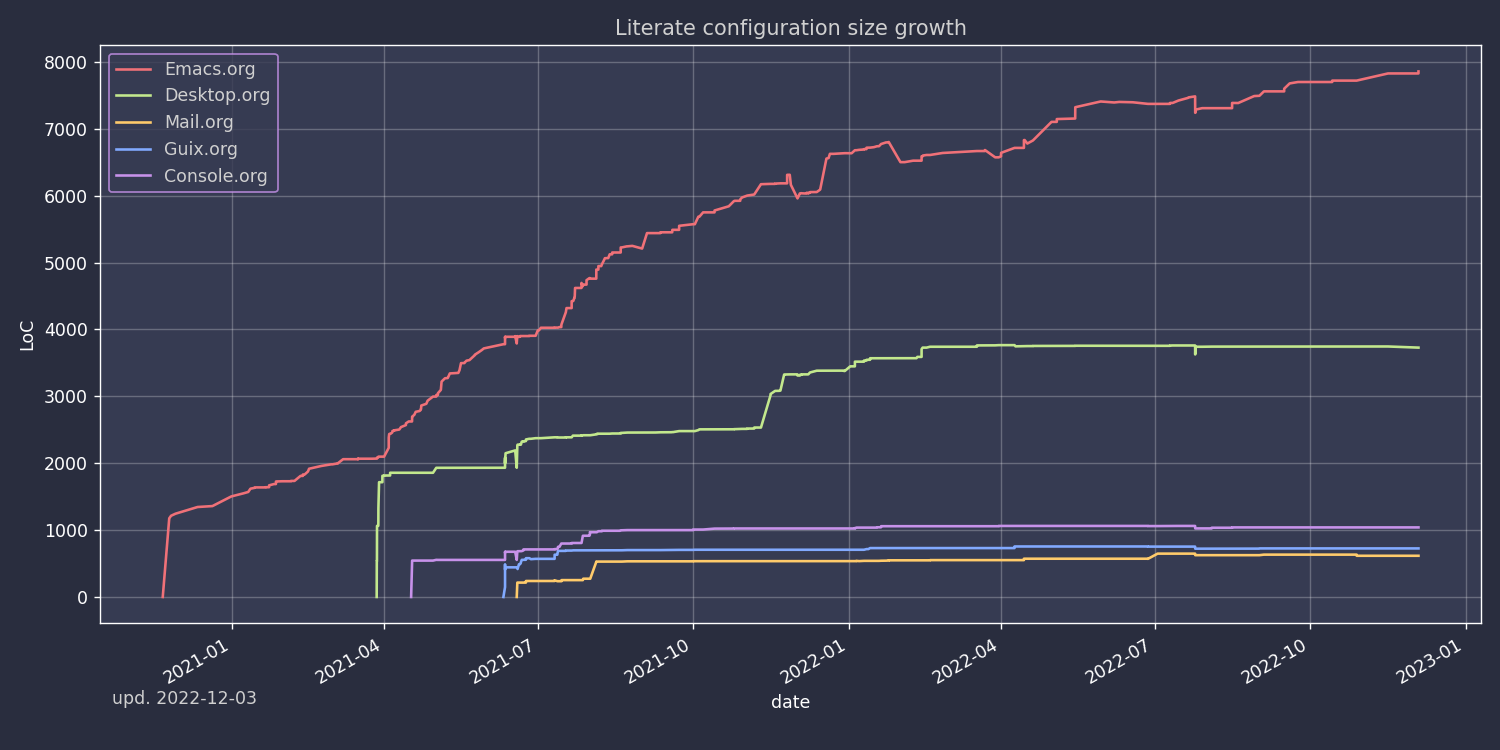
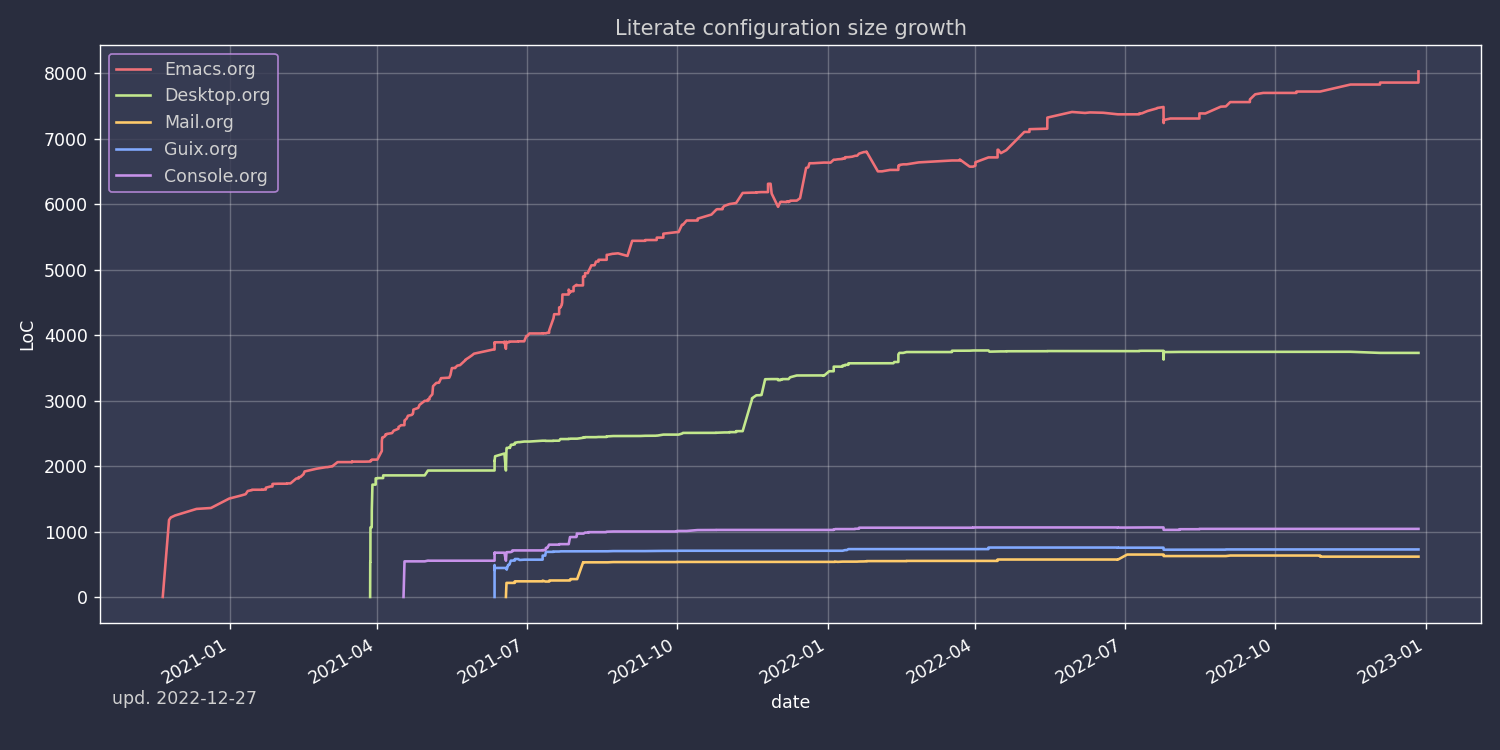
deploy: 5f0178d5ff3b571fbaf17defacb254b3b082af56

diff --git a/configs/emacs/index.html b/configs/emacs/index.html
@@ -498,7 +498,8 @@ Emacs is also particularly good at writing Lisp code, e.g. Clojure, Common Lisp,
 </span></span><span style="display:flex;"><span>     <span style="color:#19177c">prodigy</span>
 </span></span><span style="display:flex;"><span>     <span style="color:#19177c">slime</span>
 </span></span><span style="display:flex;"><span>     <span style="color:#19177c">forge</span>
-</span></span><span style="display:flex;"><span>     <span style="color:#19177c">deadgrep</span>)))
+</span></span><span style="display:flex;"><span>     <span style="color:#19177c">deadgrep</span>
+</span></span><span style="display:flex;"><span>     <span style="color:#19177c">vc-annonate</span>)))
 </span></span></code></pre></div><h4 id="avy">Avy</h4>
 <p><a href="https://github.com/abo-abo/avy">Avy</a> is a package that helps navigate Emacs in a tree-like manner.</p>
 <p>References:</p>
@@ -933,18 +934,13 @@ Emacs is also particularly good at writing Lisp code, e.g. Clojure, Common Lisp,
 </span></span><span style="display:flex;"><span>    <span style="color:#ba2121">&#34;M&#34;</span> <span style="color:#19177c">&#39;magit-file-dispatch</span>)
 </span></span><span style="display:flex;"><span>  <span style="color:#008000">:config</span>
 </span></span><span style="display:flex;"><span>  (<span style="color:#008000">setq</span> <span style="color:#19177c">magit-blame-styles</span>
-</span></span><span style="display:flex;"><span>	<span style="color:#666">&#39;</span>((<span style="color:#19177c">margin</span>
-</span></span><span style="display:flex;"><span>	   (<span style="color:#19177c">margin-format</span>    <span style="color:#666">.</span> (<span style="color:#ba2121">&#34;%a %A %s&#34;</span>))
-</span></span><span style="display:flex;"><span>	   (<span style="color:#19177c">margin-width</span>     <span style="color:#666">.</span> <span style="color:#666">42</span>)
-</span></span><span style="display:flex;"><span>	   (<span style="color:#19177c">margin-face</span>      <span style="color:#666">.</span> <span style="color:#19177c">magit-blame-margin</span>)
-</span></span><span style="display:flex;"><span>	   (<span style="color:#19177c">margin-body-face</span> <span style="color:#666">.</span> (<span style="color:#19177c">magit-blame-dimmed</span>)))
-</span></span><span style="display:flex;"><span>	  (<span style="color:#19177c">headings</span>
-</span></span><span style="display:flex;"><span>	   (<span style="color:#19177c">heading-format</span>   <span style="color:#666">.</span> <span style="color:#ba2121">&#34;%-20a %C %s\n&#34;</span>))
-</span></span><span style="display:flex;"><span>	  (<span style="color:#19177c">highlight</span>
-</span></span><span style="display:flex;"><span>	   (<span style="color:#19177c">highlight-face</span>   <span style="color:#666">.</span> <span style="color:#19177c">magit-blame-highlight</span>))
-</span></span><span style="display:flex;"><span>	  (<span style="color:#19177c">lines</span>
-</span></span><span style="display:flex;"><span>	   (<span style="color:#19177c">show-lines</span>       <span style="color:#666">.</span> <span style="color:#800">t</span>)
-</span></span><span style="display:flex;"><span>	   (<span style="color:#19177c">show-message</span>     <span style="color:#666">.</span> <span style="color:#800">t</span>)))))
+</span></span><span style="display:flex;"><span>      <span style="color:#666">&#39;</span>((<span style="color:#19177c">headings</span>
+</span></span><span style="display:flex;"><span>	 (<span style="color:#19177c">heading-format</span> <span style="color:#666">.</span> <span style="color:#ba2121">&#34;%-20a %C %s\n&#34;</span>))
+</span></span><span style="display:flex;"><span>	(<span style="color:#19177c">highlight</span>
+</span></span><span style="display:flex;"><span>	 (<span style="color:#19177c">highlight-face</span> <span style="color:#666">.</span> <span style="color:#19177c">magit-blame-highlight</span>))
+</span></span><span style="display:flex;"><span>	(<span style="color:#19177c">lines</span>
+</span></span><span style="display:flex;"><span>	 (<span style="color:#19177c">show-lines</span> <span style="color:#666">.</span> <span style="color:#800">t</span>)
+</span></span><span style="display:flex;"><span>	 (<span style="color:#19177c">show-message</span> <span style="color:#666">.</span> <span style="color:#800">t</span>)))))
 </span></span></code></pre></div><p><a href="https://github.com/magit/forge">forge</a> provides integration with forges, such as GitHub and GitLab.</p>
 <div class="highlight"><pre tabindex="0" style=";-moz-tab-size:4;-o-tab-size:4;tab-size:4;"><code class="language-emacs-lisp" data-lang="emacs-lisp"><span style="display:flex;"><span>(<span style="color:#008000">use-package</span> <span style="color:#19177c">forge</span>
 </span></span><span style="display:flex;"><span>  <span style="color:#008000">:after</span> <span style="color:#19177c">magit</span>
@@ -2929,6 +2925,11 @@ Emacs is also particularly good at writing Lisp code, e.g. Clojure, Common Lisp,
 </span></span></code></pre></div><h4 id="crontab">crontab</h4>
 <div class="highlight"><pre tabindex="0" style=";-moz-tab-size:4;-o-tab-size:4;tab-size:4;"><code class="language-emacs-lisp" data-lang="emacs-lisp"><span style="display:flex;"><span>(<span style="color:#008000">use-package</span> <span style="color:#19177c">crontab-mode</span>
 </span></span><span style="display:flex;"><span>  <span style="color:#008000">:straight</span> <span style="color:#800">t</span>)
+</span></span></code></pre></div><h4 id="nginx">nginx</h4>
+<div class="highlight"><pre tabindex="0" style=";-moz-tab-size:4;-o-tab-size:4;tab-size:4;"><code class="language-emacs-lisp" data-lang="emacs-lisp"><span style="display:flex;"><span>(<span style="color:#008000">use-package</span> <span style="color:#19177c">nginx-mode</span>
+</span></span><span style="display:flex;"><span>  <span style="color:#008000">:straight</span> <span style="color:#800">t</span>
+</span></span><span style="display:flex;"><span>  <span style="color:#008000">:config</span>
+</span></span><span style="display:flex;"><span>  (<span style="color:#19177c">my/set-smartparens-indent</span> <span style="color:#19177c">&#39;nginx-mode</span>))
 </span></span></code></pre></div><h3 id="shell">Shell</h3>
 <h4 id="sh">sh</h4>
 <div class="highlight"><pre tabindex="0" style=";-moz-tab-size:4;-o-tab-size:4;tab-size:4;"><code class="language-emacs-lisp" data-lang="emacs-lisp"><span style="display:flex;"><span>(<span style="color:#19177c">add-hook</span> <span style="color:#19177c">&#39;sh-mode-hook</span> <span style="color:#00f">#&#39;</span><span style="color:#19177c">smartparens-mode</span>)
@@ -6066,6 +6067,7 @@ Emacs is also particularly good at writing Lisp code, e.g. Clojure, Common Lisp,
 </span></span><span style="display:flex;"><span>  <span style="color:#408080;font-style:italic">;; (evil-lion-mode -1)</span>
 </span></span><span style="display:flex;"><span>  <span style="color:#408080;font-style:italic">;; (evil-commentary-mode -1)</span>
 </span></span><span style="display:flex;"><span>  <span style="color:#408080;font-style:italic">;; ))</span>
+</span></span><span style="display:flex;"><span>  <span style="color:#408080;font-style:italic">;; &lt;I&#39;ve just read the line below as &#34;I hate everything&#34;&gt;</span>
 </span></span><span style="display:flex;"><span>  <span style="color:#408080;font-style:italic">;; I have everything I need in polybar</span>
 </span></span><span style="display:flex;"><span>  (<span style="color:#19177c">emms-mode-line-mode</span> <span style="color:#666">-1</span>)
 </span></span><span style="display:flex;"><span>  (<span style="color:#19177c">emms-playing-time-display-mode</span> <span style="color:#666">-1</span>)
@@ -6787,6 +6789,155 @@ Emacs is also particularly good at writing Lisp code, e.g. Clojure, Common Lisp,
 </span></span><span style="display:flex;"><span>	    <span style="color:#008000">:action</span> (<span style="color:#008000">lambda</span> (<span style="color:#19177c">elem</span>)
 </span></span><span style="display:flex;"><span>		      (<span style="color:#008000">setq</span> <span style="color:#19177c">zone-programs</span> (<span style="color:#00f">vector</span> (<span style="color:#00f">cdr</span> <span style="color:#19177c">elem</span>)))
 </span></span><span style="display:flex;"><span>		      (<span style="color:#19177c">zone</span>))))
+</span></span></code></pre></div><h4 id="gource">Gource</h4>
+<p><a href="https://gource.io/">Gource</a> is a nice repository visualization tool.</p>
+<p>The goal of the functions below is to run the tool for multiple repos from Dired. Maybe I&rsquo;ll extract it into a separate package at some point, but I&rsquo;m fine with letting it live here for now.</p>
+<h5 id="gravatars">Gravatars</h5>
+<p>Gource can use pictures to visualize users, so I want to use gravatars. It&rsquo;s quite amazing that Emacs has a built-in gravatar package.</p>
+<p>First, retrieve a particular gravatar, with a fallback to identicon if necessary:</p>
+<div class="highlight"><pre tabindex="0" style=";-moz-tab-size:4;-o-tab-size:4;tab-size:4;"><code class="language-emacs-lisp" data-lang="emacs-lisp"><span style="display:flex;"><span>(<span style="color:#008000">defun</span> <span style="color:#19177c">my/gravatar-retrieve-sync</span> (<span style="color:#19177c">email</span> <span style="color:#19177c">file-name</span>)
+</span></span><span style="display:flex;"><span>  (<span style="color:#008000">let</span> ((<span style="color:#19177c">gravatar-default-image</span> <span style="color:#ba2121">&#34;identicon&#34;</span>)
+</span></span><span style="display:flex;"><span>	(<span style="color:#19177c">gravatar-size</span> <span style="color:#800">nil</span>)
+</span></span><span style="display:flex;"><span>	(<span style="color:#19177c">coding-system-for-write</span> <span style="color:#19177c">&#39;binary</span>)
+</span></span><span style="display:flex;"><span>	(<span style="color:#19177c">write-region-annotate-functions</span> <span style="color:#800">nil</span>)
+</span></span><span style="display:flex;"><span>	(<span style="color:#19177c">write-region-post-annotation-function</span> <span style="color:#800">nil</span>))
+</span></span><span style="display:flex;"><span>    (<span style="color:#00f">write-region</span>
+</span></span><span style="display:flex;"><span>     (<span style="color:#19177c">image-property</span> (<span style="color:#19177c">gravatar-retrieve-synchronously</span> <span style="color:#19177c">email</span>) <span style="color:#008000">:data</span>)
+</span></span><span style="display:flex;"><span>     <span style="color:#800">nil</span> <span style="color:#19177c">file-name</span> <span style="color:#800">nil</span> <span style="color:#008000">:silent</span>)))
+</span></span></code></pre></div><p>These images have to be saved to a folder, with the name corresponding to the git username.</p>
+<div class="highlight"><pre tabindex="0" style=";-moz-tab-size:4;-o-tab-size:4;tab-size:4;"><code class="language-emacs-lisp" data-lang="emacs-lisp"><span style="display:flex;"><span>(<span style="color:#008000">setq</span> <span style="color:#19177c">my/gravatar-folder</span> <span style="color:#ba2121">&#34;/home/pavel/.cache/gravatars/&#34;</span>)
+</span></span><span style="display:flex;"><span>
+</span></span><span style="display:flex;"><span>(<span style="color:#008000">defun</span> <span style="color:#19177c">my/gravatar-save</span> (<span style="color:#19177c">email</span> <span style="color:#19177c">author</span>)
+</span></span><span style="display:flex;"><span>  (<span style="color:#008000">let</span> ((<span style="color:#19177c">file-name</span> (<span style="color:#00f">concat</span> <span style="color:#19177c">my/gravatar-folder</span> <span style="color:#19177c">author</span> <span style="color:#ba2121">&#34;.png&#34;</span>)))
+</span></span><span style="display:flex;"><span>    (<span style="color:#19177c">mkdir</span> <span style="color:#19177c">my/gravatar-folder</span> <span style="color:#800">t</span>)
+</span></span><span style="display:flex;"><span>    (<span style="color:#008000">unless</span> (<span style="color:#00f">file-exists-p</span> <span style="color:#19177c">file-name</span>)
+</span></span><span style="display:flex;"><span>      (<span style="color:#00f">message</span> <span style="color:#ba2121">&#34;Fetching gravatar for %s (%s)&#34;</span> <span style="color:#19177c">author</span> <span style="color:#19177c">email</span>)
+</span></span><span style="display:flex;"><span>      (<span style="color:#19177c">my/gravatar-retrieve-sync</span> <span style="color:#19177c">email</span> <span style="color:#19177c">file-name</span>))))
+</span></span></code></pre></div><h5 id="author-names">Author names</h5>
+<p>That&rsquo;s a hell of a function&hellip;</p>
+<p>The problem it tries to solve is that, at least in the repos I&rsquo;m working with, one person can have different commits signed by different emails with the same username, or by same username with different emails. So this function tries to extract and match all such users.</p>
+<div class="highlight"><pre tabindex="0" style=";-moz-tab-size:4;-o-tab-size:4;tab-size:4;"><code class="language-emacs-lisp" data-lang="emacs-lisp"><span style="display:flex;"><span>(<span style="color:#008000">defun</span> <span style="color:#19177c">my/git-get-authors</span> (<span style="color:#19177c">repo</span> <span style="color:#008000">&amp;optional</span> <span style="color:#19177c">authors-init</span>)
+</span></span><span style="display:flex;"><span>  (<span style="color:#008000">let*</span> ((<span style="color:#19177c">default-directory</span> <span style="color:#19177c">repo</span>)
+</span></span><span style="display:flex;"><span>	 (<span style="color:#19177c">data</span> (<span style="color:#19177c">shell-command-to-string</span>
+</span></span><span style="display:flex;"><span>		<span style="color:#ba2121">&#34;git log --pretty=format:\&#34;%ae|%an\&#34; | sort | uniq -c | sed \&#34;s/^[ \t]*//;s/ /|/\&#34;&#34;</span>))
+</span></span><span style="display:flex;"><span>	 (<span style="color:#19177c">authors</span>
+</span></span><span style="display:flex;"><span>	  (<span style="color:#008000">cl-loop</span> <span style="color:#19177c">for</span> <span style="color:#00f">string</span> <span style="color:#19177c">in</span> (<span style="color:#19177c">split-string</span> <span style="color:#19177c">data</span> <span style="color:#ba2121">&#34;\n&#34;</span>)
+</span></span><span style="display:flex;"><span>		   <span style="color:#008000">if</span> (<span style="color:#00f">=</span> (<span style="color:#00f">length</span> (<span style="color:#19177c">split-string</span> <span style="color:#00f">string</span> <span style="color:#ba2121">&#34;|&#34;</span>)) <span style="color:#666">3</span>)
+</span></span><span style="display:flex;"><span>		   <span style="color:#19177c">collect</span> (<span style="color:#008000">let</span> ((<span style="color:#19177c">datum</span> (<span style="color:#19177c">split-string</span> <span style="color:#00f">string</span> <span style="color:#ba2121">&#34;|&#34;</span>)))
+</span></span><span style="display:flex;"><span>			     <span style="color:#666">`</span>((<span style="color:#19177c">count</span> <span style="color:#666">.</span> <span style="color:#666">,</span>(<span style="color:#00f">string-to-number</span> (<span style="color:#00f">nth</span> <span style="color:#666">0</span> <span style="color:#19177c">datum</span>)))
+</span></span><span style="display:flex;"><span>			       (<span style="color:#19177c">email</span> <span style="color:#666">.</span> <span style="color:#666">,</span>(<span style="color:#00f">downcase</span> (<span style="color:#00f">nth</span> <span style="color:#666">1</span> <span style="color:#19177c">datum</span>)))
+</span></span><span style="display:flex;"><span>			       (<span style="color:#19177c">author</span> <span style="color:#666">.</span> <span style="color:#666">,</span>(<span style="color:#00f">nth</span> <span style="color:#666">2</span> <span style="color:#19177c">datum</span>)))))))
+</span></span><span style="display:flex;"><span>    (<span style="color:#00f">mapcar</span>
+</span></span><span style="display:flex;"><span>     (<span style="color:#008000">lambda</span> (<span style="color:#19177c">datum</span>)
+</span></span><span style="display:flex;"><span>       (<span style="color:#008000">setf</span> (<span style="color:#19177c">alist-get</span> <span style="color:#19177c">&#39;author</span> <span style="color:#19177c">datum</span>)
+</span></span><span style="display:flex;"><span>	     (<span style="color:#00f">car</span> (<span style="color:#19177c">cl-reduce</span>
+</span></span><span style="display:flex;"><span>		   (<span style="color:#008000">lambda</span> (<span style="color:#19177c">acc</span> <span style="color:#19177c">author</span>)
+</span></span><span style="display:flex;"><span>		     (<span style="color:#008000">if</span> (<span style="color:#00f">&gt;</span> (<span style="color:#00f">cdr</span> <span style="color:#19177c">author</span>) (<span style="color:#00f">cdr</span> <span style="color:#19177c">acc</span>))
+</span></span><span style="display:flex;"><span>			 <span style="color:#19177c">author</span>
+</span></span><span style="display:flex;"><span>		       <span style="color:#19177c">acc</span>))
+</span></span><span style="display:flex;"><span>		   (<span style="color:#19177c">alist-get</span> <span style="color:#19177c">&#39;authors</span> <span style="color:#19177c">datum</span>)
+</span></span><span style="display:flex;"><span>		   <span style="color:#008000">:initial-value</span> <span style="color:#666">&#39;</span>(<span style="color:#800">nil</span> <span style="color:#666">.</span> <span style="color:#666">-1</span>))))
+</span></span><span style="display:flex;"><span>       (<span style="color:#008000">setf</span> (<span style="color:#19177c">alist-get</span> <span style="color:#19177c">&#39;email</span> <span style="color:#19177c">datum</span>)
+</span></span><span style="display:flex;"><span>	     (<span style="color:#00f">car</span> (<span style="color:#19177c">cl-reduce</span>
+</span></span><span style="display:flex;"><span>		   (<span style="color:#008000">lambda</span> (<span style="color:#19177c">acc</span> <span style="color:#19177c">email</span>)
+</span></span><span style="display:flex;"><span>		     (<span style="color:#008000">if</span> (<span style="color:#00f">&gt;</span> (<span style="color:#00f">cdr</span> <span style="color:#19177c">email</span>) (<span style="color:#00f">cdr</span> <span style="color:#19177c">acc</span>))
+</span></span><span style="display:flex;"><span>			 <span style="color:#19177c">email</span>
+</span></span><span style="display:flex;"><span>		       <span style="color:#19177c">acc</span>))
+</span></span><span style="display:flex;"><span>		   (<span style="color:#19177c">alist-get</span> <span style="color:#19177c">&#39;emails</span> <span style="color:#19177c">datum</span>)
+</span></span><span style="display:flex;"><span>		   <span style="color:#008000">:initial-value</span> <span style="color:#666">&#39;</span>(<span style="color:#800">nil</span> <span style="color:#666">.</span> <span style="color:#666">-1</span>))))
+</span></span><span style="display:flex;"><span>       <span style="color:#19177c">datum</span>)
+</span></span><span style="display:flex;"><span>     (<span style="color:#19177c">cl-reduce</span>
+</span></span><span style="display:flex;"><span>      (<span style="color:#008000">lambda</span> (<span style="color:#19177c">acc</span> <span style="color:#19177c">val</span>)
+</span></span><span style="display:flex;"><span>	(<span style="color:#008000">let*</span> ((<span style="color:#19177c">author</span> (<span style="color:#19177c">alist-get</span> <span style="color:#19177c">&#39;author</span> <span style="color:#19177c">val</span>))
+</span></span><span style="display:flex;"><span>	       (<span style="color:#19177c">email</span> (<span style="color:#19177c">alist-get</span> <span style="color:#19177c">&#39;email</span> <span style="color:#19177c">val</span>))
+</span></span><span style="display:flex;"><span>	       (<span style="color:#19177c">count</span> (<span style="color:#19177c">alist-get</span> <span style="color:#19177c">&#39;count</span> <span style="color:#19177c">val</span>))
+</span></span><span style="display:flex;"><span>	       (<span style="color:#19177c">saved-value</span>
+</span></span><span style="display:flex;"><span>		(<span style="color:#19177c">seq-find</span>
+</span></span><span style="display:flex;"><span>		 (<span style="color:#008000">lambda</span> (<span style="color:#19177c">cand</span>)
+</span></span><span style="display:flex;"><span>		   (<span style="color:#008000">or</span> (<span style="color:#19177c">alist-get</span> <span style="color:#19177c">email</span> (<span style="color:#19177c">alist-get</span> <span style="color:#19177c">&#39;emails</span> <span style="color:#19177c">cand</span>)
+</span></span><span style="display:flex;"><span>				  <span style="color:#800">nil</span> <span style="color:#800">nil</span> <span style="color:#00f">#&#39;string-equal</span>)
+</span></span><span style="display:flex;"><span>		       (<span style="color:#19177c">alist-get</span> <span style="color:#19177c">author</span> (<span style="color:#19177c">alist-get</span> <span style="color:#19177c">&#39;authors</span> <span style="color:#19177c">cand</span>)
+</span></span><span style="display:flex;"><span>				  <span style="color:#800">nil</span> <span style="color:#800">nil</span> <span style="color:#00f">#&#39;string-equal</span>)
+</span></span><span style="display:flex;"><span>		       (<span style="color:#19177c">alist-get</span> <span style="color:#19177c">email</span> (<span style="color:#19177c">alist-get</span> <span style="color:#19177c">&#39;authors</span> <span style="color:#19177c">cand</span>)
+</span></span><span style="display:flex;"><span>				  <span style="color:#800">nil</span> <span style="color:#800">nil</span> <span style="color:#00f">#&#39;string-equal</span>)
+</span></span><span style="display:flex;"><span>		       (<span style="color:#19177c">alist-get</span> <span style="color:#19177c">author</span> (<span style="color:#19177c">alist-get</span> <span style="color:#19177c">&#39;emails</span> <span style="color:#19177c">cand</span>)
+</span></span><span style="display:flex;"><span>				  <span style="color:#800">nil</span> <span style="color:#800">nil</span> <span style="color:#00f">#&#39;string-equal</span>)))
+</span></span><span style="display:flex;"><span>		 <span style="color:#19177c">acc</span>)))
+</span></span><span style="display:flex;"><span>	  (<span style="color:#008000">if</span> <span style="color:#19177c">saved-value</span>
+</span></span><span style="display:flex;"><span>	      (<span style="color:#008000">progn</span>
+</span></span><span style="display:flex;"><span>		(<span style="color:#008000">if</span> (<span style="color:#19177c">alist-get</span> <span style="color:#19177c">email</span> (<span style="color:#19177c">alist-get</span> <span style="color:#19177c">&#39;emails</span> <span style="color:#19177c">saved-value</span>)
+</span></span><span style="display:flex;"><span>			       <span style="color:#800">nil</span> <span style="color:#800">nil</span> <span style="color:#00f">#&#39;string-equal</span>)
+</span></span><span style="display:flex;"><span>		    (<span style="color:#008000">cl-incf</span> (<span style="color:#19177c">alist-get</span> <span style="color:#19177c">email</span> (<span style="color:#19177c">alist-get</span> <span style="color:#19177c">&#39;emails</span> <span style="color:#19177c">saved-value</span>)
+</span></span><span style="display:flex;"><span>					<span style="color:#800">nil</span> <span style="color:#800">nil</span> <span style="color:#00f">#&#39;string-equal</span>)
+</span></span><span style="display:flex;"><span>			     <span style="color:#19177c">count</span>)
+</span></span><span style="display:flex;"><span>		  (<span style="color:#008000">push</span> (<span style="color:#00f">cons</span> <span style="color:#19177c">email</span> <span style="color:#19177c">count</span>) (<span style="color:#19177c">alist-get</span> <span style="color:#19177c">&#39;emails</span> <span style="color:#19177c">saved-value</span>)))
+</span></span><span style="display:flex;"><span>		(<span style="color:#008000">if</span> (<span style="color:#19177c">alist-get</span> <span style="color:#19177c">author</span> (<span style="color:#19177c">alist-get</span> <span style="color:#19177c">&#39;authors</span> <span style="color:#19177c">saved-value</span>)
+</span></span><span style="display:flex;"><span>			       <span style="color:#800">nil</span> <span style="color:#800">nil</span> <span style="color:#00f">#&#39;string-equal</span>)
+</span></span><span style="display:flex;"><span>		    (<span style="color:#008000">cl-incf</span> (<span style="color:#19177c">alist-get</span> <span style="color:#19177c">author</span> (<span style="color:#19177c">alist-get</span> <span style="color:#19177c">&#39;authors</span> <span style="color:#19177c">saved-value</span>)
+</span></span><span style="display:flex;"><span>					<span style="color:#800">nil</span> <span style="color:#800">nil</span> <span style="color:#00f">#&#39;string-equal</span>)
+</span></span><span style="display:flex;"><span>			     <span style="color:#19177c">count</span>)
+</span></span><span style="display:flex;"><span>		  (<span style="color:#008000">push</span> (<span style="color:#00f">cons</span> <span style="color:#19177c">author</span> <span style="color:#19177c">count</span>) (<span style="color:#19177c">alist-get</span> <span style="color:#19177c">&#39;authors</span> <span style="color:#19177c">saved-value</span>))))
+</span></span><span style="display:flex;"><span>	    (<span style="color:#008000">setq</span> <span style="color:#19177c">saved-value</span>
+</span></span><span style="display:flex;"><span>		  (<span style="color:#008000">push</span> <span style="color:#666">`</span>((<span style="color:#19177c">emails</span> <span style="color:#666">.</span> ((<span style="color:#666">,</span><span style="color:#19177c">email</span> <span style="color:#666">.</span> <span style="color:#666">,</span><span style="color:#19177c">count</span>)))
+</span></span><span style="display:flex;"><span>			  (<span style="color:#19177c">authors</span> <span style="color:#666">.</span> ((<span style="color:#666">,</span><span style="color:#19177c">author</span> <span style="color:#666">.</span> <span style="color:#666">,</span><span style="color:#19177c">count</span>))))
+</span></span><span style="display:flex;"><span>			<span style="color:#19177c">acc</span>)))
+</span></span><span style="display:flex;"><span>	  <span style="color:#19177c">acc</span>))
+</span></span><span style="display:flex;"><span>      <span style="color:#19177c">authors</span>
+</span></span><span style="display:flex;"><span>      <span style="color:#008000">:initial-value</span> <span style="color:#19177c">authors-init</span>))))
+</span></span></code></pre></div><h5 id="get-gource-log">Get Gource Log</h5>
+<div class="highlight"><pre tabindex="0" style=";-moz-tab-size:4;-o-tab-size:4;tab-size:4;"><code class="language-emacs-lisp" data-lang="emacs-lisp"><span style="display:flex;"><span>(<span style="color:#008000">defun</span> <span style="color:#19177c">my/gource-prepare-log</span> (<span style="color:#19177c">repo</span> <span style="color:#19177c">authors</span>)
+</span></span><span style="display:flex;"><span>  (<span style="color:#008000">let</span> ((<span style="color:#00f">log</span> (<span style="color:#19177c">shell-command-to-string</span>
+</span></span><span style="display:flex;"><span>	      (<span style="color:#00f">concat</span>
+</span></span><span style="display:flex;"><span>	       <span style="color:#ba2121">&#34;gource --output-custom-log - &#34;</span>
+</span></span><span style="display:flex;"><span>	       <span style="color:#19177c">repo</span>)))
+</span></span><span style="display:flex;"><span>	(<span style="color:#19177c">authors-mapping</span> (<span style="color:#00f">make-hash-table</span> <span style="color:#008000">:test</span> <span style="color:#00f">#&#39;equal</span>))
+</span></span><span style="display:flex;"><span>	(<span style="color:#19177c">prefix</span> (<span style="color:#19177c">file-name-base</span> <span style="color:#19177c">repo</span>)))
+</span></span><span style="display:flex;"><span>    (<span style="color:#008000">cl-loop</span> <span style="color:#19177c">for</span> <span style="color:#19177c">author-datum</span> <span style="color:#19177c">in</span> <span style="color:#19177c">authors</span>
+</span></span><span style="display:flex;"><span>	     <span style="color:#19177c">for</span> <span style="color:#19177c">author</span> <span style="color:#00f">=</span> (<span style="color:#19177c">alist-get</span> <span style="color:#19177c">&#39;author</span> <span style="color:#19177c">author-datum</span>)
+</span></span><span style="display:flex;"><span>	     <span style="color:#008000">do</span> (<span style="color:#19177c">my/gravatar-save</span> (<span style="color:#19177c">alist-get</span> <span style="color:#19177c">&#39;email</span> <span style="color:#19177c">author-datum</span>) <span style="color:#19177c">author</span>)
+</span></span><span style="display:flex;"><span>	     <span style="color:#008000">do</span> (<span style="color:#008000">cl-loop</span> <span style="color:#19177c">for</span> <span style="color:#19177c">other-author</span> <span style="color:#19177c">in</span> (<span style="color:#19177c">alist-get</span> <span style="color:#19177c">&#39;authors</span> <span style="color:#19177c">author-datum</span>)
+</span></span><span style="display:flex;"><span>			 <span style="color:#008000">unless</span> (<span style="color:#00f">string-equal</span> (<span style="color:#00f">car</span> <span style="color:#19177c">other-author</span>) <span style="color:#19177c">author</span>)
+</span></span><span style="display:flex;"><span>			 <span style="color:#008000">do</span> (<span style="color:#00f">puthash</span> (<span style="color:#00f">car</span> <span style="color:#19177c">other-author</span>) <span style="color:#19177c">author</span>
+</span></span><span style="display:flex;"><span>				     <span style="color:#19177c">authors-mapping</span>)))
+</span></span><span style="display:flex;"><span>    (<span style="color:#008000">cl-loop</span> <span style="color:#19177c">for</span> <span style="color:#19177c">line</span> <span style="color:#19177c">in</span> (<span style="color:#19177c">split-string</span> <span style="color:#00f">log</span> <span style="color:#ba2121">&#34;\n&#34;</span>)
+</span></span><span style="display:flex;"><span>	     <span style="color:#00f">concat</span> (<span style="color:#008000">let</span> ((<span style="color:#19177c">fragments</span> (<span style="color:#19177c">split-string</span> <span style="color:#19177c">line</span> <span style="color:#ba2121">&#34;|&#34;</span>)))
+</span></span><span style="display:flex;"><span>		      (<span style="color:#008000">when</span> (<span style="color:#00f">&gt;</span> (<span style="color:#00f">length</span> <span style="color:#19177c">fragments</span>) <span style="color:#666">3</span>)
+</span></span><span style="display:flex;"><span>			(<span style="color:#19177c">when-let</span> (<span style="color:#19177c">mapped-author</span> (<span style="color:#00f">gethash</span> (<span style="color:#00f">nth</span> <span style="color:#666">1</span> <span style="color:#19177c">fragments</span>)
+</span></span><span style="display:flex;"><span>							  <span style="color:#19177c">authors-mapping</span>))
+</span></span><span style="display:flex;"><span>			  (<span style="color:#008000">setf</span> (<span style="color:#00f">nth</span> <span style="color:#666">1</span> <span style="color:#19177c">fragments</span>) <span style="color:#19177c">mapped-author</span>))
+</span></span><span style="display:flex;"><span>			(<span style="color:#008000">setf</span> (<span style="color:#00f">nth</span> <span style="color:#666">3</span> <span style="color:#19177c">fragments</span>)
+</span></span><span style="display:flex;"><span>			      (<span style="color:#00f">concat</span> <span style="color:#ba2121">&#34;/&#34;</span> <span style="color:#19177c">prefix</span> (<span style="color:#00f">nth</span> <span style="color:#666">3</span> <span style="color:#19177c">fragments</span>))))
+</span></span><span style="display:flex;"><span>		      (<span style="color:#19177c">string-join</span> <span style="color:#19177c">fragments</span> <span style="color:#ba2121">&#34;|&#34;</span>))
+</span></span><span style="display:flex;"><span>	     <span style="color:#00f">concat</span> <span style="color:#ba2121">&#34;\n&#34;</span>)))
+</span></span></code></pre></div><div class="highlight"><pre tabindex="0" style=";-moz-tab-size:4;-o-tab-size:4;tab-size:4;"><code class="language-emacs-lisp" data-lang="emacs-lisp"><span style="display:flex;"><span>(<span style="color:#008000">defun</span> <span style="color:#19177c">my/gource-dired-create-logs</span> (<span style="color:#19177c">repos</span> <span style="color:#19177c">log-name</span>)
+</span></span><span style="display:flex;"><span>  (<span style="color:#008000">interactive</span> (<span style="color:#00f">list</span> (<span style="color:#008000">or</span> (<span style="color:#19177c">dired-get-marked-files</span> <span style="color:#800">nil</span> <span style="color:#800">nil</span> <span style="color:#00f">#&#39;file-directory-p</span>)
+</span></span><span style="display:flex;"><span>			 (<span style="color:#d2413a;font-weight:bold">user-error</span> <span style="color:#ba2121">&#34;Select at least one directory&#34;</span>))
+</span></span><span style="display:flex;"><span>		     (<span style="color:#19177c">read-file-name</span> <span style="color:#ba2121">&#34;Log file name: &#34;</span> <span style="color:#800">nil</span> <span style="color:#ba2121">&#34;combined.log&#34;</span>)))
+</span></span><span style="display:flex;"><span>  (<span style="color:#008000">let*</span> ((<span style="color:#19177c">authors</span>
+</span></span><span style="display:flex;"><span>	  (<span style="color:#19177c">cl-reduce</span>
+</span></span><span style="display:flex;"><span>	   (<span style="color:#008000">lambda</span> (<span style="color:#19177c">acc</span> <span style="color:#19177c">repo</span>)
+</span></span><span style="display:flex;"><span>	     (<span style="color:#19177c">my/git-get-authors</span> <span style="color:#19177c">repo</span> <span style="color:#19177c">acc</span>))
+</span></span><span style="display:flex;"><span>	   <span style="color:#19177c">repos</span>
+</span></span><span style="display:flex;"><span>	   <span style="color:#008000">:initial-value</span> <span style="color:#800">nil</span>))
+</span></span><span style="display:flex;"><span>	 (<span style="color:#19177c">logs</span> (<span style="color:#19177c">string-join</span>
+</span></span><span style="display:flex;"><span>		(<span style="color:#19177c">seq-filter</span>
+</span></span><span style="display:flex;"><span>		 (<span style="color:#008000">lambda</span> (<span style="color:#19177c">line</span>)
+</span></span><span style="display:flex;"><span>		   (<span style="color:#19177c">not</span> (<span style="color:#19177c">string-empty-p</span> <span style="color:#19177c">line</span>)))
+</span></span><span style="display:flex;"><span>		 (<span style="color:#19177c">seq-sort-by</span>
+</span></span><span style="display:flex;"><span>		  (<span style="color:#008000">lambda</span> (<span style="color:#19177c">line</span>)
+</span></span><span style="display:flex;"><span>		    (<span style="color:#19177c">if-let</span> (<span style="color:#19177c">time</span> (<span style="color:#00f">car</span> (<span style="color:#19177c">split-string</span> <span style="color:#19177c">line</span> <span style="color:#ba2121">&#34;|&#34;</span>)))
+</span></span><span style="display:flex;"><span>			(<span style="color:#00f">string-to-number</span> <span style="color:#19177c">time</span>)
+</span></span><span style="display:flex;"><span>		      <span style="color:#666">0</span>))
+</span></span><span style="display:flex;"><span>		  <span style="color:#00f">#&#39;&lt;</span>
+</span></span><span style="display:flex;"><span>		  (<span style="color:#19177c">split-string</span>
+</span></span><span style="display:flex;"><span>		   (<span style="color:#00f">mapconcat</span>
+</span></span><span style="display:flex;"><span>		    (<span style="color:#008000">lambda</span> (<span style="color:#19177c">repo</span>)
+</span></span><span style="display:flex;"><span>		      (<span style="color:#19177c">my/gource-prepare-log</span> <span style="color:#19177c">repo</span> <span style="color:#19177c">authors</span>))
+</span></span><span style="display:flex;"><span>		    <span style="color:#19177c">repos</span> <span style="color:#ba2121">&#34;\n&#34;</span>)
+</span></span><span style="display:flex;"><span>		   <span style="color:#ba2121">&#34;\n&#34;</span>)))
+</span></span><span style="display:flex;"><span>		<span style="color:#ba2121">&#34;\n&#34;</span>)))
+</span></span><span style="display:flex;"><span>    (<span style="color:#008000">with-temp-file</span> <span style="color:#19177c">log-name</span>
+</span></span><span style="display:flex;"><span>      (<span style="color:#00f">insert</span> <span style="color:#19177c">logs</span>))))
 </span></span></code></pre></div><h2 id="guix-settings">Guix settings</h2>
 <table>
 <thead>
@@ -7019,6 +7170,7 @@ Emacs is also particularly good at writing Lisp code, e.g. Clojure, Common Lisp,
             <li><a href="#docker">Docker</a></li>
             <li><a href="#jenkins">Jenkins</a></li>
             <li><a href="#crontab">crontab</a></li>
+            <li><a href="#nginx">nginx</a></li>
           </ul>
         </li>
         <li><a href="#shell">Shell</a>
@@ -7209,6 +7361,7 @@ Emacs is also particularly good at writing Lisp code, e.g. Clojure, Common Lisp,
             <li><a href="#power-mode">Power mode</a></li>
             <li><a href="#redacted">Redacted</a></li>
             <li><a href="#zone">Zone</a></li>
+            <li><a href="#gource">Gource</a></li>
           </ul>
         </li>
       </ul>

diff --git a/configs/guix/index.html b/configs/guix/index.html
@@ -561,7 +561,7 @@
 </li>
 <li>
 <p>Manually fix <code>etc/resolv.conf</code> to prevent DNS leaks</p>
-<div class="highlight"><pre tabindex="0" style=";-moz-tab-size:4;-o-tab-size:4;tab-size:4;"><code class="language-sh" data-lang="sh"><span style="display:flex;"><span>cp /etc/resolv.conf /etc/resolv.conf-bak
+<div class="highlight"><pre tabindex="0" style=";-moz-tab-size:4;-o-tab-size:4;tab-size:4;"><code class="language-sh" data-lang="sh"><span style="display:flex;"><span>/home/pavel/.guix-extra-profiles/console/console/bin/cp /etc/resolv.conf /etc/resolv.conf-bak
 </span></span><span style="display:flex;"><span><span style="color:#008000">echo</span> <span style="color:#ba2121">&#34;nameserver 8.8.8.8&#34;</span> &gt; /etc/resolv.conf
 </span></span></code></pre></div><p>Restore <code>resolv.conf</code></p>
 <div class="highlight"><pre tabindex="0" style=";-moz-tab-size:4;-o-tab-size:4;tab-size:4;"><code class="language-sh" data-lang="sh"><span style="display:flex;"><span>resolveconf -u
@@ -606,7 +606,7 @@
 </span></span><span style="display:flex;"><span><span style="color:#408080;font-style:italic">#     pkexec nmcli con modify &#34;$CONN&#34; ipv6.method ignore</span>
 </span></span><span style="display:flex;"><span><span style="color:#408080;font-style:italic">#     nmcli connection up &#34;$CONN&#34;</span>
 </span></span><span style="display:flex;"><span><span style="color:#408080;font-style:italic"># fi</span>
-</span></span><span style="display:flex;"><span>pkexec openvpn --config ~/.vpn/mullvad_openvpn_linux_lv_rix/mullvad_lv_rix.conf
+</span></span><span style="display:flex;"><span>pkexec openvpn --config ~/.vpn/mullvad_openvpn_linux_fi_hel/mullvad_fi_hel.conf
 </span></span></code></pre></div><h4 id="377cab"><del>vpn-stop</del></h4>
 <p><del>Also a script to reverse the changes</del>
 Also not necessary now. Just <code>herd stop vpn</code> and <code>sudo pkill vpn</code>.</p>

diff --git a/index.html b/index.html
@@ -1,6 +1,6 @@
 <!DOCTYPE html>
 <html lang=""><head>
-	<meta name="generator" content="Hugo 0.107.0">
+	<meta name="generator" content="Hugo 0.109.0">
     <meta charset="utf-8">
     <meta name="viewport" content="width=device-width, initial-scale=1, shrink-to-fit=no">
 
